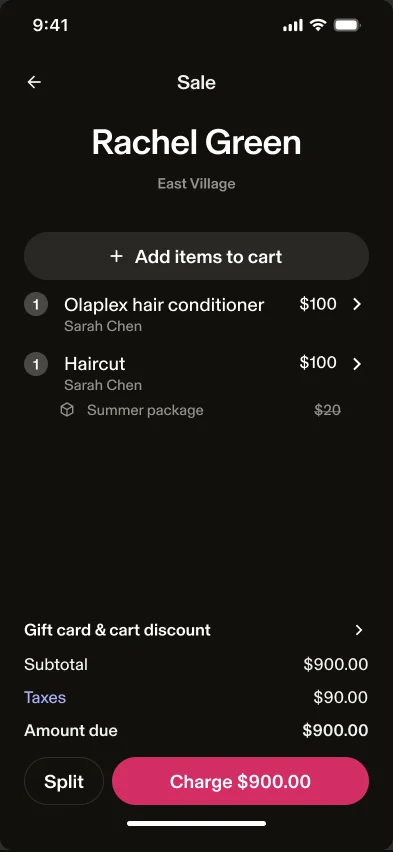
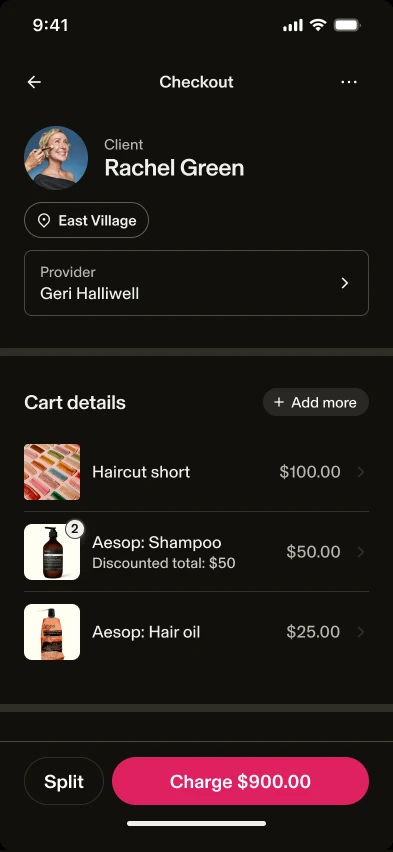
Multi Ticket: old checkout cart as the cart before
Claude-Session: https://claude.ai/code/session_01VfeLV8XZ819E3sTS2rx56B

diff --git a/multi-ticket/index.html b/multi-ticket/index.html
@@ -518,10 +518,10 @@ dialog form button{background:none;border:0;color:#C9CFCE;font:400 12px var(--mo
   <div class="head"><h3 class="title">The cart</h3></div>
   <div class="content"><div class="morph tall">
     <div class="frame" data-zoom role="button" tabindex="0" aria-label="Enlarge screen" style="--r:393/852">
-      <div class="layer before"><img src="img/cart-before.webp" alt="Before: add items sits above the items" style="object-position:top left" loading="lazy" decoding="async"></div>
-      <div class="layer after"><img src="img/cart-after.webp" alt="After: items first, with add items inline below" style="object-position:top left" loading="lazy" decoding="async"></div><i class="edge"></i>
+      <div class="layer before"><img src="img/cart-before.webp" alt="Before: client card, a single provider, and line items with thumbnails" style="object-position:top left" loading="lazy" decoding="async"></div>
+      <div class="layer after"><img src="img/cart-after.webp" alt="After: client as the title, a provider on each line, and add items inline below" style="object-position:top left" loading="lazy" decoding="async"></div><i class="edge"></i>
     </div>
-    <div class="bar"><p class="foot">Items lead and adding more sits right below them, so a second appointment reads as one more line, not a new sale.</p><div class="toggle"><button type="button" aria-pressed="true">Before</button><button type="button" aria-pressed="false">After</button><i></i></div></div>
+    <div class="bar"><p class="foot">One provider per sale became a provider per line, so items from every appointment sit in one list, with adding more right below.</p><div class="toggle"><button type="button" aria-pressed="true">Before</button><button type="button" aria-pressed="false">After</button><i></i></div></div>
   </div></div>
 </div></section>
 

diff --git a/multi-ticket/build.py b/multi-ticket/build.py
@@ -254,7 +254,7 @@ SLIDES = f'''
 
 {chapter(1, "Phase 1")}
 
-{morph("The cart", "cart-before", "cart-after", "393/852", "Items lead and adding more sits right below them, so a second appointment reads as one more line, not a new sale.", ["add items sits above the items", "items first, with add items inline below"], tall=True)}
+{morph("The cart", "cart-before", "cart-after", "393/852", "One provider per sale became a provider per line, so items from every appointment sit in one list, with adding more right below.", ["client card, a single provider, and line items with thumbnails", "client as the title, a provider on each line, and add items inline below"], tall=True)}
 
 {morph("Tipping on one ticket", "tip-before", "tip-after", "393/852", "One tip for the whole ticket, split across providers by service value.", ["tip and signature on a single appointment", "one tip across every provider on the ticket"], tall=True)}
 
